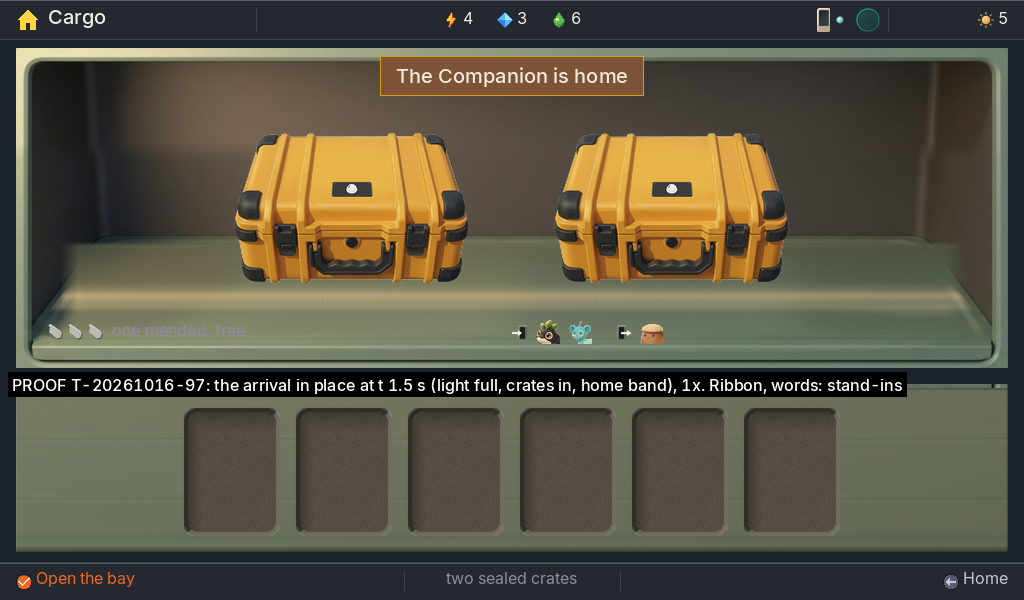
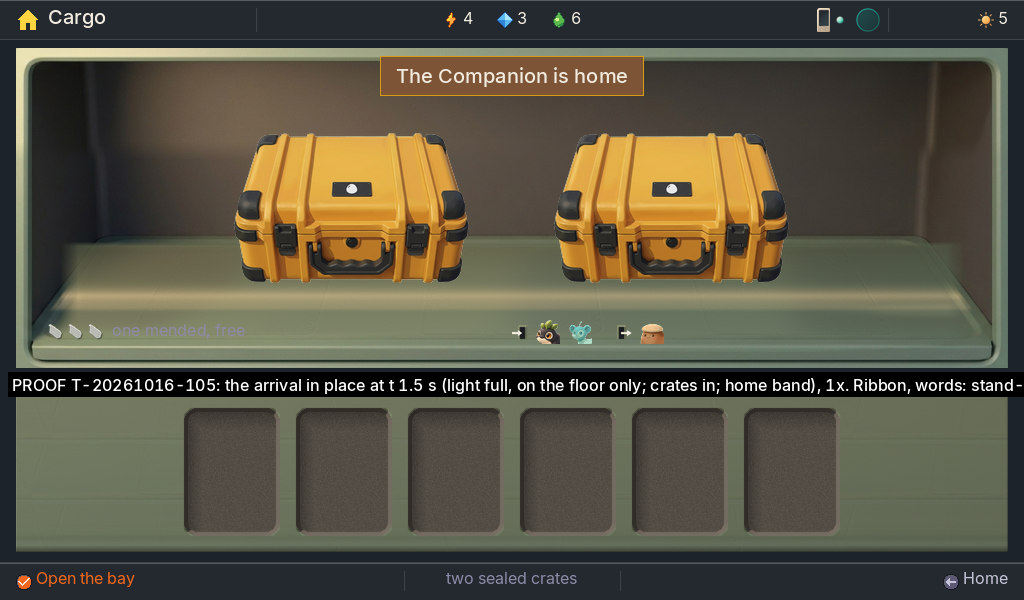
Dock proofs labelled for T-20261016-105

Changed region(s): [[0.1875, 0.6, 1.0, 0.66]]

diff --git a/art/station-masters/pods/dock/proof-arrival.py b/art/station-masters/pods/dock/proof-arrival.py
@@ -37,6 +37,6 @@ def label(f, s):
     dr = ImageDraw.Draw(f); lb = F("Medium", 16); dr.rectangle([8, 372, 16 + dr.textlength(s, font=lb), 396], fill=(0, 0, 0)); dr.text((12, 375), s, font=lb, fill=(255, 255, 255)); return f
 os.makedirs(out, exist_ok=True)
 a = frame(); a2 = a.crop((16, 232, 1008, 360)); a2.resize((a2.width * 2, a2.height * 2), Image.NEAREST).convert("RGB").save(os.path.join(out, "arrival-floor-2x.png"))
-label(a, "PROOF T-20261016-97: the arrival in place at t 1.5 s (light full, crates in, home band), 1x. Ribbon, words: stand-ins").convert("RGB").save(os.path.join(out, "arrival-in-place-1x.png"))
-label(frame(crates=False, band=False, ribbon=False), "PROOF T-20261016-97: the link light alone on the open bay, 1x").convert("RGB").save(os.path.join(out, "link-light-on-open-bay-1x.png"))
+label(a, "PROOF T-20261016-105: the arrival in place at t 1.5 s (light full, on the floor only; crates in; home band), 1x. Ribbon, words: stand-ins").convert("RGB").save(os.path.join(out, "arrival-in-place-1x.png"))
+label(frame(crates=False, band=False, ribbon=False), "PROOF T-20261016-105: the link light alone on the open bay, clipped to the floor, 1x").convert("RGB").save(os.path.join(out, "link-light-on-open-bay-1x.png"))
 print("written; ribbon fill", FILL, "edge", EDGE)
